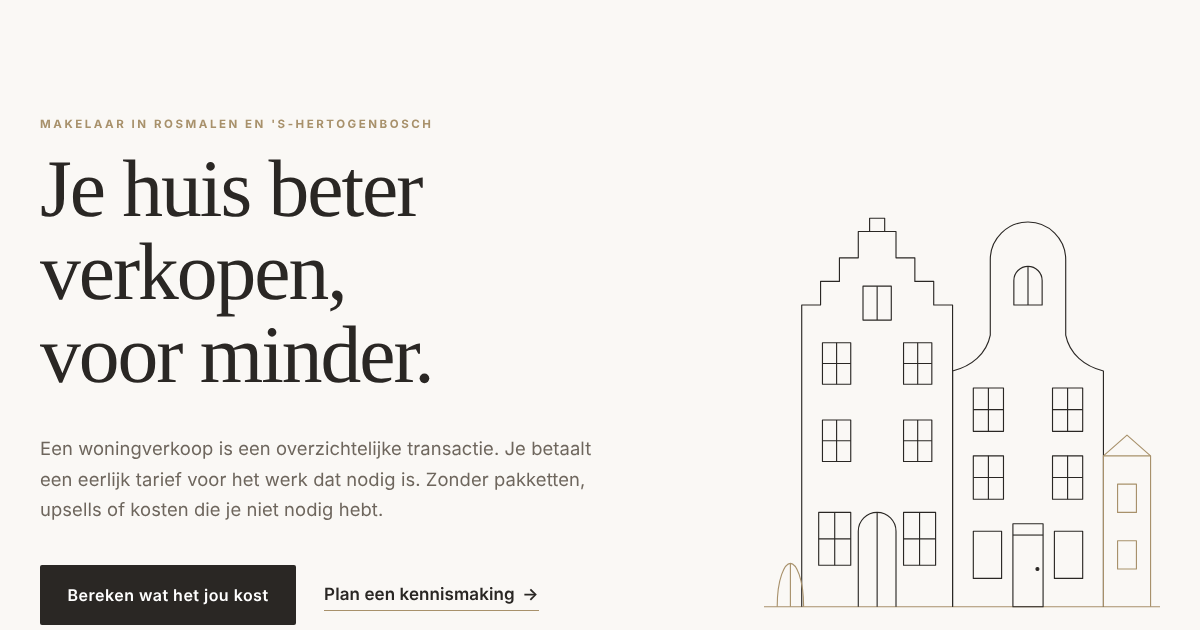
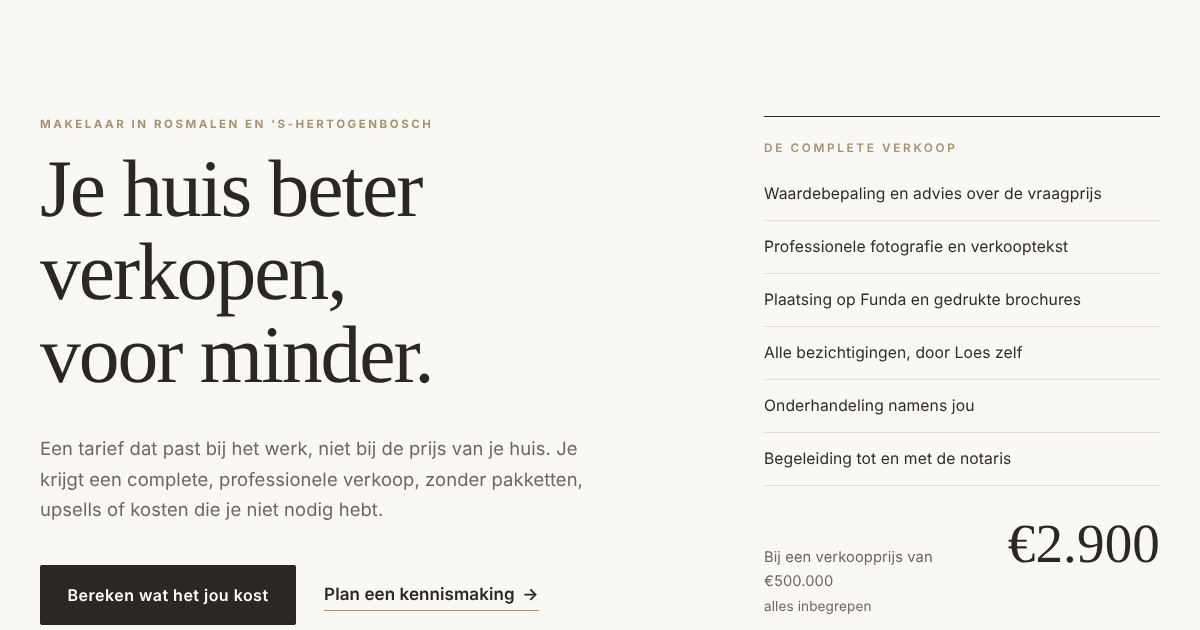
Hero: tekening vervangen door overzicht werk en prijs

diff --git a/index.html b/index.html
@@ -15,7 +15,7 @@
 <meta property="og:image" content="https://mevrouw-de-makelaar.nl/og-image.png">
 <meta name="theme-color" content="#2a2724">
 <link rel="icon" href="/favicon.svg" type="image/svg+xml">
-<link rel="stylesheet" href="/styles.css?v=87afa82c">
+<link rel="stylesheet" href="/styles.css?v=2b3c0447">
 <script type="application/ld+json">{"@context":"https://schema.org","@type":"RealEstateAgent","name":"Mevrouw de Makelaar","url":"https://mevrouw-de-makelaar.nl","email":"loes@salesday.nl","telephone":"+31622549219","description":"Persoonlijke woningverkoop in Rosmalen en 's-Hertogenbosch tegen een transparante, lage prijs: (1% van de verkoopprijs min €800 kosten) gedeeld door 2, plus €800 vaste kosten.","areaServed":[{"@type":"City","name":"Rosmalen"},{"@type":"City","name":"'s-Hertogenbosch"}],"address":{"@type":"PostalAddress","addressLocality":"Rosmalen","addressCountry":"NL"},"founder":{"@type":"Person","name":"Loes"},"priceRange":"€"}</script>
 <script type="application/ld+json">{"@context":"https://schema.org","@type":"FAQPage","mainEntity":[{"@type":"Question","name":"Waarom is jullie tarief zo veel lager?","acceptedAnswer":{"@type":"Answer","text":"Omdat het werk bij een gewone woningverkoop nauwelijks verschilt tussen een huis van €350.000 en een van €700.000, terwijl een traditioneel percentage wel verdubbelt. Wij rekenen voor het werk dat nodig is: geen kantoorpand, geen pakketten, geen verplichte extra's. Je krijgt dezelfde professionele presentatie en begeleiding."}},{"@type":"Question","name":"Wat betaal ik precies?","acceptedAnswer":{"@type":"Answer","text":"Je betaalt de helft van (1% van de verkoopprijs min €800), plus €800 vaste kosten voor Funda, de fotograaf en de brochures. Bij een verkoopprijs van €500.000 is dat €2.100 plus €800, dus €2.900 in totaal. Op de tarievenpagina reken je het voor jouw huis uit."}},{"@type":"Question","name":"Wie doet de bezichtigingen?","acceptedAnswer":{"@type":"Answer","text":"Loes zelf. Ze kent je huis, weet wat kopers willen weten en vertelt het verhaal van je woning. Jij hoeft er niet bij te zijn, maar het mag natuurlijk wel."}},{"@type":"Question","name":"Wat valt er wel en niet onder de kosten?","acceptedAnswer":{"@type":"Answer","text":"De €800 vaste kosten zijn voor de Funda-plaatsing, de professionele fotograaf en de gedrukte brochures. De vergoeding voor Loes dekt de waardebepaling, bezichtigingen, onderhandeling en begeleiding tot de notaris. Niet inbegrepen zijn bijvoorbeeld het energielabel, een bouwkundige keuring of notariskosten [controleren en aanvullen]."}},{"@type":"Question","name":"Hoe zit het met de onderhandeling?","acceptedAnswer":{"@type":"Answer","text":"Loes onderhandelt namens jou en overlegt bij elk bod met je. Jij beslist altijd zelf of je een bod accepteert. Omdat haar vergoeding meegroeit met de verkoopprijs, heeft ze er belang bij dat je een goede prijs krijgt."}},{"@type":"Question","name":"Werk je samen met een notaris?","acceptedAnswer":{"@type":"Answer","text":"Ja. Je kiest zelf een notaris, of Loes stelt er een voor uit de regio. Zij levert de gegevens aan voor de koopovereenkomst en de akte van levering."}},{"@type":"Question","name":"Wat is courtage eigenlijk?","acceptedAnswer":{"@type":"Answer","text":"Courtage is het bedrag dat een makelaar rekent voor de verkoop van je huis, meestal een percentage van de verkoopprijs. Bij traditionele verkoopmakelaars ligt dat meestal tussen 1,1 en 1,4%, met daarbovenop vaak opstartkosten van enkele honderden euro's."}},{"@type":"Question","name":"Ook als ik verkoop voor een ouder of na een overlijden?","acceptedAnswer":{"@type":"Answer","text":"Juist dan. Loes neemt de tijd, denkt mee over wat er moet gebeuren en ontzorgt waar het kan. Ook als jij verder weg woont."}}]}</script>
 </head>
@@ -41,39 +41,24 @@
     <div class="hero-ed-text">
       <span class="eyebrow">Makelaar in Rosmalen en 's-Hertogenbosch</span>
       <h1>Je huis beter verkopen,<br>voor minder.</h1>
-      <p class="lead">Een woningverkoop is een overzichtelijke transactie. Je betaalt een eerlijk tarief voor het werk dat nodig is. Zonder pakketten, upsells of kosten die je niet nodig hebt.</p>
+      <p class="lead">Een tarief dat past bij het werk, niet bij de prijs van je huis. Je krijgt een complete, professionele verkoop, zonder pakketten, upsells of kosten die je niet nodig hebt.</p>
       <div class="btn-row">
         <a class="btn btn--primary" href="#calculator">Bereken wat het jou kost</a>
         <a class="link-arrow" href="/contact">Plan een kennismaking <span aria-hidden="true">&rarr;</span></a>
       </div>
     </div>
-    <div class="hero-ed-art" aria-hidden="true"><svg viewBox="0 0 420 480" fill="none" stroke="#2a2724" stroke-width="1.2" stroke-linejoin="round">
-  <g stroke="#a8916b"><path d="M0 460H420"/></g>
-  <path d="M40 460V160H40V140H60V115H80V90H100V62H140V90H160V115H180V140H200V160V460"/>
-  <path d="M112 62V48h16v14" />
-  <g>
-    <rect x="62" y="180" width="30" height="44"/><path d="M77 180v44M62 202h30"/>
-    <rect x="148" y="180" width="30" height="44"/><path d="M163 180v44M148 202h30"/>
-    <rect x="62" y="262" width="30" height="44"/><path d="M77 262v44M62 284h30"/>
-    <rect x="148" y="262" width="30" height="44"/><path d="M163 262v44M148 284h30"/>
-    <rect x="105" y="120" width="30" height="36"/><path d="M120 120v36"/>
-    <path d="M100 460V380a20 20 0 0 1 40 0v80"/><path d="M120 360v100"/>
-    <rect x="58" y="360" width="34" height="56"/><path d="M75 360v56M58 388h34"/>
-    <rect x="148" y="360" width="34" height="56"/><path d="M165 360v56M148 388h34"/>
-  </g>
-  <path d="M200 460V210C220 205 236 192 240 172V92a40 40 0 0 1 80 0v80c4 20 20 33 40 38v250"/>
-  <g>
-    <path d="M265 140v-26a15 15 0 0 1 30 0v26z"/><path d="M280 99v41"/>
-    <rect x="222" y="228" width="32" height="46"/><path d="M238 228v46M222 251h32"/>
-    <rect x="306" y="228" width="32" height="46"/><path d="M322 228v46M306 251h32"/>
-    <rect x="222" y="300" width="32" height="46"/><path d="M238 300v46M222 323h32"/>
-    <rect x="306" y="300" width="32" height="46"/><path d="M322 300v46M306 323h32"/>
-    <rect x="264" y="372" width="32" height="88"/><path d="M264 384h32"/><circle cx="290" cy="420" r="1.6" fill="#2a2724"/>
-    <rect x="222" y="380" width="30" height="50"/><rect x="308" y="380" width="30" height="50"/>
-  </g>
-  <g stroke="#a8916b"><path d="M360 460V300h50v160"/><path d="M360 300l25-22 25 22"/><rect x="375" y="330" width="20" height="30"/><rect x="375" y="390" width="20" height="30"/></g>
-  <g stroke="#a8916b"><path d="M14 460c0-30 8-46 14-46s14 16 14 46"/><path d="M28 414v46"/></g>
-</svg></div>
+    <aside class="hero-price" aria-label="Wat je krijgt en wat het kost">
+      <span class="hp-label">De complete verkoop</span>
+      <ul class="hp-list">
+        <li>Waardebepaling en advies over de vraagprijs</li>
+        <li>Professionele fotografie en verkooptekst</li>
+        <li>Plaatsing op Funda en gedrukte brochures</li>
+        <li>Alle bezichtigingen, door Loes zelf</li>
+        <li>Onderhandeling namens jou</li>
+        <li>Begeleiding tot en met de notaris</li>
+      </ul>
+      <div class="hp-total"><span>Bij een verkoopprijs van €500.000</span><strong>€2.900</strong><small>alles inbegrepen</small></div>
+    </aside>
   </div>
   <div class="wrap">
     <div class="band">

diff --git a/styles.css b/styles.css
@@ -480,3 +480,12 @@ h2 { font-size: clamp(1.6rem, 3vw, 2.3rem); }
 .cta-band { border: 0; border-top: 1px solid var(--teal-900); padding: 40px 0 0; }
 .photo-ph { background: #ebe6de; }
 .portrait { overflow: hidden; } .portrait .photo-ph { position: absolute; inset: 0; }
+.hero-ed-grid { align-items: center; }
+.hero-price { border-top: 1px solid var(--teal-900); padding-top: 22px; }
+.hp-label { display: block; font-size: .74rem; letter-spacing: .22em; text-transform: uppercase; color: var(--brass); font-weight: 600; margin-bottom: 10px; }
+.hp-list { list-style: none; padding: 0; margin: 0 0 8px; }
+.hp-list li { padding: 13px 0; border-bottom: 1px solid var(--sand-200); color: var(--ink); font-size: .98rem; }
+.hp-total { display: grid; grid-template-columns: 1fr auto; align-items: baseline; gap: 2px 16px; padding-top: 22px; }
+.hp-total span { color: var(--muted); font-size: .92rem; }
+.hp-total strong { grid-row: span 2; font-family: var(--serif); font-weight: 400; font-size: clamp(2.6rem, 4.6vw, 3.6rem); line-height: 1; color: var(--teal-900); }
+.hp-total small { color: var(--muted); font-size: .85rem; }

diff --git a/404.html b/404.html
@@ -15,7 +15,7 @@
 <meta property="og:image" content="https://mevrouw-de-makelaar.nl/og-image.png">
 <meta name="theme-color" content="#2a2724">
 <link rel="icon" href="/favicon.svg" type="image/svg+xml">
-<link rel="stylesheet" href="/styles.css?v=87afa82c">
+<link rel="stylesheet" href="/styles.css?v=2b3c0447">
 <script type="application/ld+json">{"@context":"https://schema.org","@type":"RealEstateAgent","name":"Mevrouw de Makelaar","url":"https://mevrouw-de-makelaar.nl","email":"loes@salesday.nl","telephone":"+31622549219","description":"Persoonlijke woningverkoop in Rosmalen en 's-Hertogenbosch tegen een transparante, lage prijs: (1% van de verkoopprijs min €800 kosten) gedeeld door 2, plus €800 vaste kosten.","areaServed":[{"@type":"City","name":"Rosmalen"},{"@type":"City","name":"'s-Hertogenbosch"}],"address":{"@type":"PostalAddress","addressLocality":"Rosmalen","addressCountry":"NL"},"founder":{"@type":"Person","name":"Loes"},"priceRange":"€"}</script>
 </head>
 <body>

diff --git a/contact.html b/contact.html
@@ -15,7 +15,7 @@
 <meta property="og:image" content="https://mevrouw-de-makelaar.nl/og-image.png">
 <meta name="theme-color" content="#2a2724">
 <link rel="icon" href="/favicon.svg" type="image/svg+xml">
-<link rel="stylesheet" href="/styles.css?v=87afa82c">
+<link rel="stylesheet" href="/styles.css?v=2b3c0447">
 <script type="application/ld+json">{"@context":"https://schema.org","@type":"RealEstateAgent","name":"Mevrouw de Makelaar","url":"https://mevrouw-de-makelaar.nl","email":"loes@salesday.nl","telephone":"+31622549219","description":"Persoonlijke woningverkoop in Rosmalen en 's-Hertogenbosch tegen een transparante, lage prijs: (1% van de verkoopprijs min €800 kosten) gedeeld door 2, plus €800 vaste kosten.","areaServed":[{"@type":"City","name":"Rosmalen"},{"@type":"City","name":"'s-Hertogenbosch"}],"address":{"@type":"PostalAddress","addressLocality":"Rosmalen","addressCountry":"NL"},"founder":{"@type":"Person","name":"Loes"},"priceRange":"€"}</script>
 </head>
 <body>

diff --git a/cookies.html b/cookies.html
@@ -15,7 +15,7 @@
 <meta property="og:image" content="https://mevrouw-de-makelaar.nl/og-image.png">
 <meta name="theme-color" content="#2a2724">
 <link rel="icon" href="/favicon.svg" type="image/svg+xml">
-<link rel="stylesheet" href="/styles.css?v=87afa82c">
+<link rel="stylesheet" href="/styles.css?v=2b3c0447">
 <script type="application/ld+json">{"@context":"https://schema.org","@type":"RealEstateAgent","name":"Mevrouw de Makelaar","url":"https://mevrouw-de-makelaar.nl","email":"loes@salesday.nl","telephone":"+31622549219","description":"Persoonlijke woningverkoop in Rosmalen en 's-Hertogenbosch tegen een transparante, lage prijs: (1% van de verkoopprijs min €800 kosten) gedeeld door 2, plus €800 vaste kosten.","areaServed":[{"@type":"City","name":"Rosmalen"},{"@type":"City","name":"'s-Hertogenbosch"}],"address":{"@type":"PostalAddress","addressLocality":"Rosmalen","addressCountry":"NL"},"founder":{"@type":"Person","name":"Loes"},"priceRange":"€"}</script>
 </head>
 <body>

diff --git a/over-loes.html b/over-loes.html
@@ -15,7 +15,7 @@
 <meta property="og:image" content="https://mevrouw-de-makelaar.nl/og-image.png">
 <meta name="theme-color" content="#2a2724">
 <link rel="icon" href="/favicon.svg" type="image/svg+xml">
-<link rel="stylesheet" href="/styles.css?v=87afa82c">
+<link rel="stylesheet" href="/styles.css?v=2b3c0447">
 <script type="application/ld+json">{"@context":"https://schema.org","@type":"RealEstateAgent","name":"Mevrouw de Makelaar","url":"https://mevrouw-de-makelaar.nl","email":"loes@salesday.nl","telephone":"+31622549219","description":"Persoonlijke woningverkoop in Rosmalen en 's-Hertogenbosch tegen een transparante, lage prijs: (1% van de verkoopprijs min €800 kosten) gedeeld door 2, plus €800 vaste kosten.","areaServed":[{"@type":"City","name":"Rosmalen"},{"@type":"City","name":"'s-Hertogenbosch"}],"address":{"@type":"PostalAddress","addressLocality":"Rosmalen","addressCountry":"NL"},"founder":{"@type":"Person","name":"Loes"},"priceRange":"€"}</script>
 </head>
 <body>

diff --git a/privacy.html b/privacy.html
@@ -15,7 +15,7 @@
 <meta property="og:image" content="https://mevrouw-de-makelaar.nl/og-image.png">
 <meta name="theme-color" content="#2a2724">
 <link rel="icon" href="/favicon.svg" type="image/svg+xml">
-<link rel="stylesheet" href="/styles.css?v=87afa82c">
+<link rel="stylesheet" href="/styles.css?v=2b3c0447">
 <script type="application/ld+json">{"@context":"https://schema.org","@type":"RealEstateAgent","name":"Mevrouw de Makelaar","url":"https://mevrouw-de-makelaar.nl","email":"loes@salesday.nl","telephone":"+31622549219","description":"Persoonlijke woningverkoop in Rosmalen en 's-Hertogenbosch tegen een transparante, lage prijs: (1% van de verkoopprijs min €800 kosten) gedeeld door 2, plus €800 vaste kosten.","areaServed":[{"@type":"City","name":"Rosmalen"},{"@type":"City","name":"'s-Hertogenbosch"}],"address":{"@type":"PostalAddress","addressLocality":"Rosmalen","addressCountry":"NL"},"founder":{"@type":"Person","name":"Loes"},"priceRange":"€"}</script>
 </head>
 <body>

diff --git a/tarieven.html b/tarieven.html
@@ -15,7 +15,7 @@
 <meta property="og:image" content="https://mevrouw-de-makelaar.nl/og-image.png">
 <meta name="theme-color" content="#2a2724">
 <link rel="icon" href="/favicon.svg" type="image/svg+xml">
-<link rel="stylesheet" href="/styles.css?v=87afa82c">
+<link rel="stylesheet" href="/styles.css?v=2b3c0447">
 <script type="application/ld+json">{"@context":"https://schema.org","@type":"RealEstateAgent","name":"Mevrouw de Makelaar","url":"https://mevrouw-de-makelaar.nl","email":"loes@salesday.nl","telephone":"+31622549219","description":"Persoonlijke woningverkoop in Rosmalen en 's-Hertogenbosch tegen een transparante, lage prijs: (1% van de verkoopprijs min €800 kosten) gedeeld door 2, plus €800 vaste kosten.","areaServed":[{"@type":"City","name":"Rosmalen"},{"@type":"City","name":"'s-Hertogenbosch"}],"address":{"@type":"PostalAddress","addressLocality":"Rosmalen","addressCountry":"NL"},"founder":{"@type":"Person","name":"Loes"},"priceRange":"€"}</script>
 </head>
 <body>

diff --git a/verkocht.html b/verkocht.html
@@ -15,7 +15,7 @@
 <meta property="og:image" content="https://mevrouw-de-makelaar.nl/og-image.png">
 <meta name="theme-color" content="#2a2724">
 <link rel="icon" href="/favicon.svg" type="image/svg+xml">
-<link rel="stylesheet" href="/styles.css?v=87afa82c">
+<link rel="stylesheet" href="/styles.css?v=2b3c0447">
 <script type="application/ld+json">{"@context":"https://schema.org","@type":"RealEstateAgent","name":"Mevrouw de Makelaar","url":"https://mevrouw-de-makelaar.nl","email":"loes@salesday.nl","telephone":"+31622549219","description":"Persoonlijke woningverkoop in Rosmalen en 's-Hertogenbosch tegen een transparante, lage prijs: (1% van de verkoopprijs min €800 kosten) gedeeld door 2, plus €800 vaste kosten.","areaServed":[{"@type":"City","name":"Rosmalen"},{"@type":"City","name":"'s-Hertogenbosch"}],"address":{"@type":"PostalAddress","addressLocality":"Rosmalen","addressCountry":"NL"},"founder":{"@type":"Person","name":"Loes"},"priceRange":"€"}</script>
 </head>
 <body>

diff --git a/voorwaarden.html b/voorwaarden.html
@@ -15,7 +15,7 @@
 <meta property="og:image" content="https://mevrouw-de-makelaar.nl/og-image.png">
 <meta name="theme-color" content="#2a2724">
 <link rel="icon" href="/favicon.svg" type="image/svg+xml">
-<link rel="stylesheet" href="/styles.css?v=87afa82c">
+<link rel="stylesheet" href="/styles.css?v=2b3c0447">
 <script type="application/ld+json">{"@context":"https://schema.org","@type":"RealEstateAgent","name":"Mevrouw de Makelaar","url":"https://mevrouw-de-makelaar.nl","email":"loes@salesday.nl","telephone":"+31622549219","description":"Persoonlijke woningverkoop in Rosmalen en 's-Hertogenbosch tegen een transparante, lage prijs: (1% van de verkoopprijs min €800 kosten) gedeeld door 2, plus €800 vaste kosten.","areaServed":[{"@type":"City","name":"Rosmalen"},{"@type":"City","name":"'s-Hertogenbosch"}],"address":{"@type":"PostalAddress","addressLocality":"Rosmalen","addressCountry":"NL"},"founder":{"@type":"Person","name":"Loes"},"priceRange":"€"}</script>
 </head>
 <body>

diff --git a/werkwijze.html b/werkwijze.html
@@ -15,7 +15,7 @@
 <meta property="og:image" content="https://mevrouw-de-makelaar.nl/og-image.png">
 <meta name="theme-color" content="#2a2724">
 <link rel="icon" href="/favicon.svg" type="image/svg+xml">
-<link rel="stylesheet" href="/styles.css?v=87afa82c">
+<link rel="stylesheet" href="/styles.css?v=2b3c0447">
 <script type="application/ld+json">{"@context":"https://schema.org","@type":"RealEstateAgent","name":"Mevrouw de Makelaar","url":"https://mevrouw-de-makelaar.nl","email":"loes@salesday.nl","telephone":"+31622549219","description":"Persoonlijke woningverkoop in Rosmalen en 's-Hertogenbosch tegen een transparante, lage prijs: (1% van de verkoopprijs min €800 kosten) gedeeld door 2, plus €800 vaste kosten.","areaServed":[{"@type":"City","name":"Rosmalen"},{"@type":"City","name":"'s-Hertogenbosch"}],"address":{"@type":"PostalAddress","addressLocality":"Rosmalen","addressCountry":"NL"},"founder":{"@type":"Person","name":"Loes"},"priceRange":"€"}</script>
 </head>
 <body>
